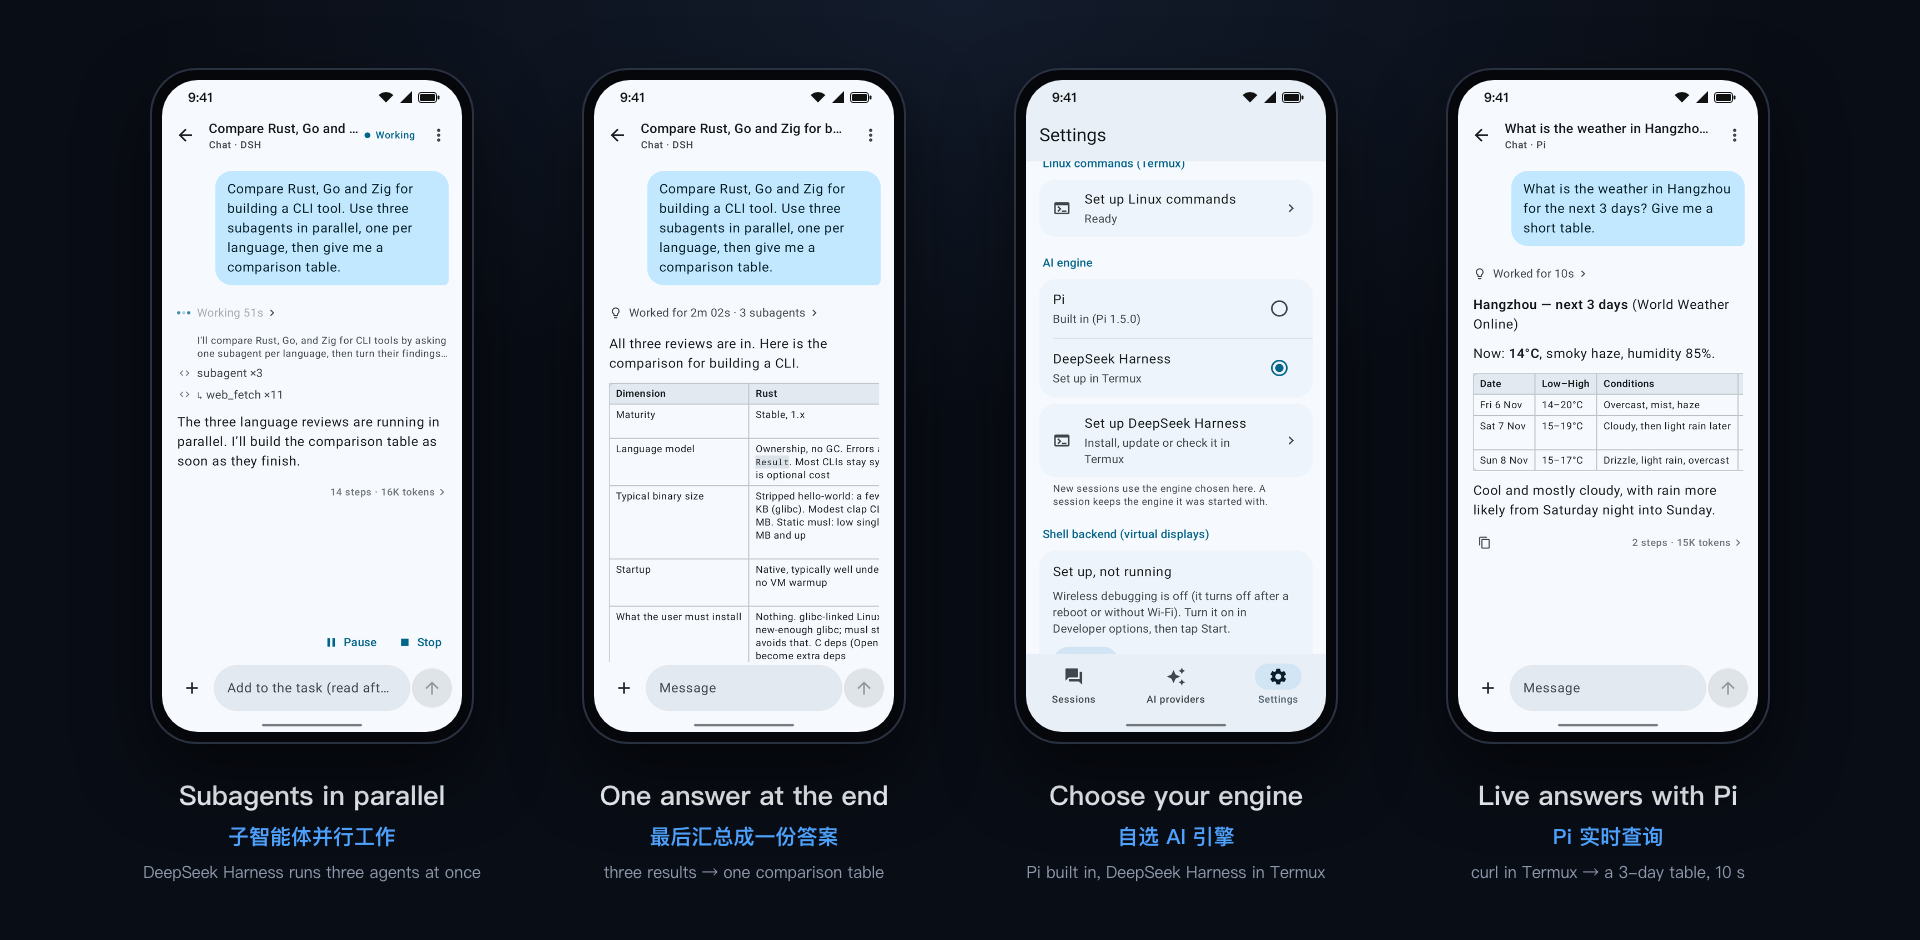
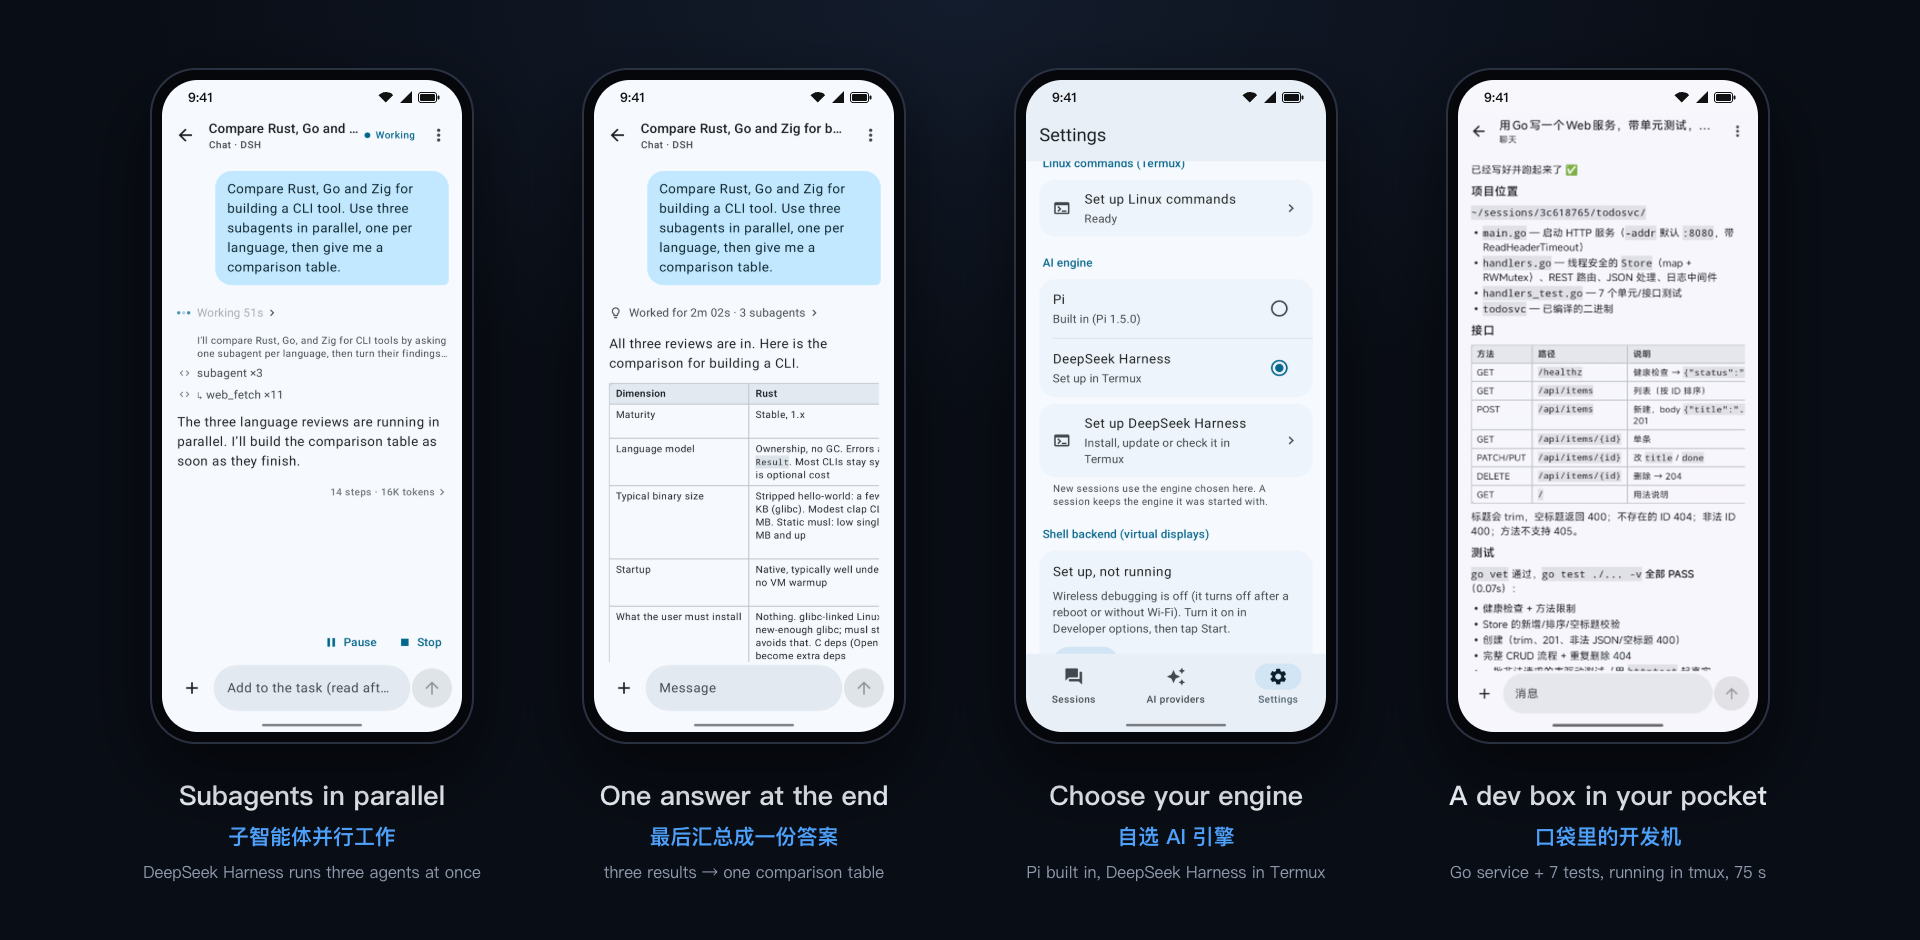
docs(readme): the showcase's last screen is the Go dev box again
The showcase's fourth screen was a Pi weather answer; it is the Go web
service with tests running in tmux again, cut from the previous showcase
(its source screenshot was never kept).

Changed region(s): [[0.75, 0.1234, 0.9062, 0.7404], [0.75, 0.833, 0.9375, 0.9564], [0.875, 0.7096, 0.9062, 0.7404]]

diff --git a/docs/images/showcase-src/showcase.html b/docs/images/showcase-src/showcase.html
@@ -38,9 +38,9 @@
   <div class="item"><div class="phone"><div class="screen"><img src="3-engine.png"></div></div>
     <h2>Choose your engine</h2><div class="zh">自选 AI 引擎</div>
     <div class="sub">Pi built in, DeepSeek Harness in Termux</div></div>
-  <div class="item"><div class="phone"><div class="screen"><img src="4-pi.png"></div></div>
-    <h2>Live answers with Pi</h2><div class="zh">Pi 实时查询</div>
-    <div class="sub">curl in Termux → a 3-day table, 10 s</div></div>
+  <div class="item"><div class="phone"><div class="screen"><img src="4-code.png"></div></div>
+    <h2>A dev box in your pocket</h2><div class="zh">口袋里的开发机</div>
+    <div class="sub">Go service + 7 tests, running in tmux, 75 s</div></div>
 </div>
 <script>
   const bar = document.getElementById("bar");

diff --git a/docs/images/showcase-src/README.md b/docs/images/showcase-src/README.md
@@ -12,4 +12,5 @@ frames with English and Chinese captions. Render it with headless Chrome:
 2. The same session once done: one turn ("Worked for 2m 02s · 3 subagents", the results folded inside), answering
    with the comparison table.
 3. Settings → AI engine: Pi or DeepSeek Harness.
-4. A Pi session: the weather via curl in Termux, as a table.
+4. A Go web service with 7 tests, written, tested and left running in `tmux` (a Chinese chat; cut from the
+   previous showcase, 2026-11-03).
